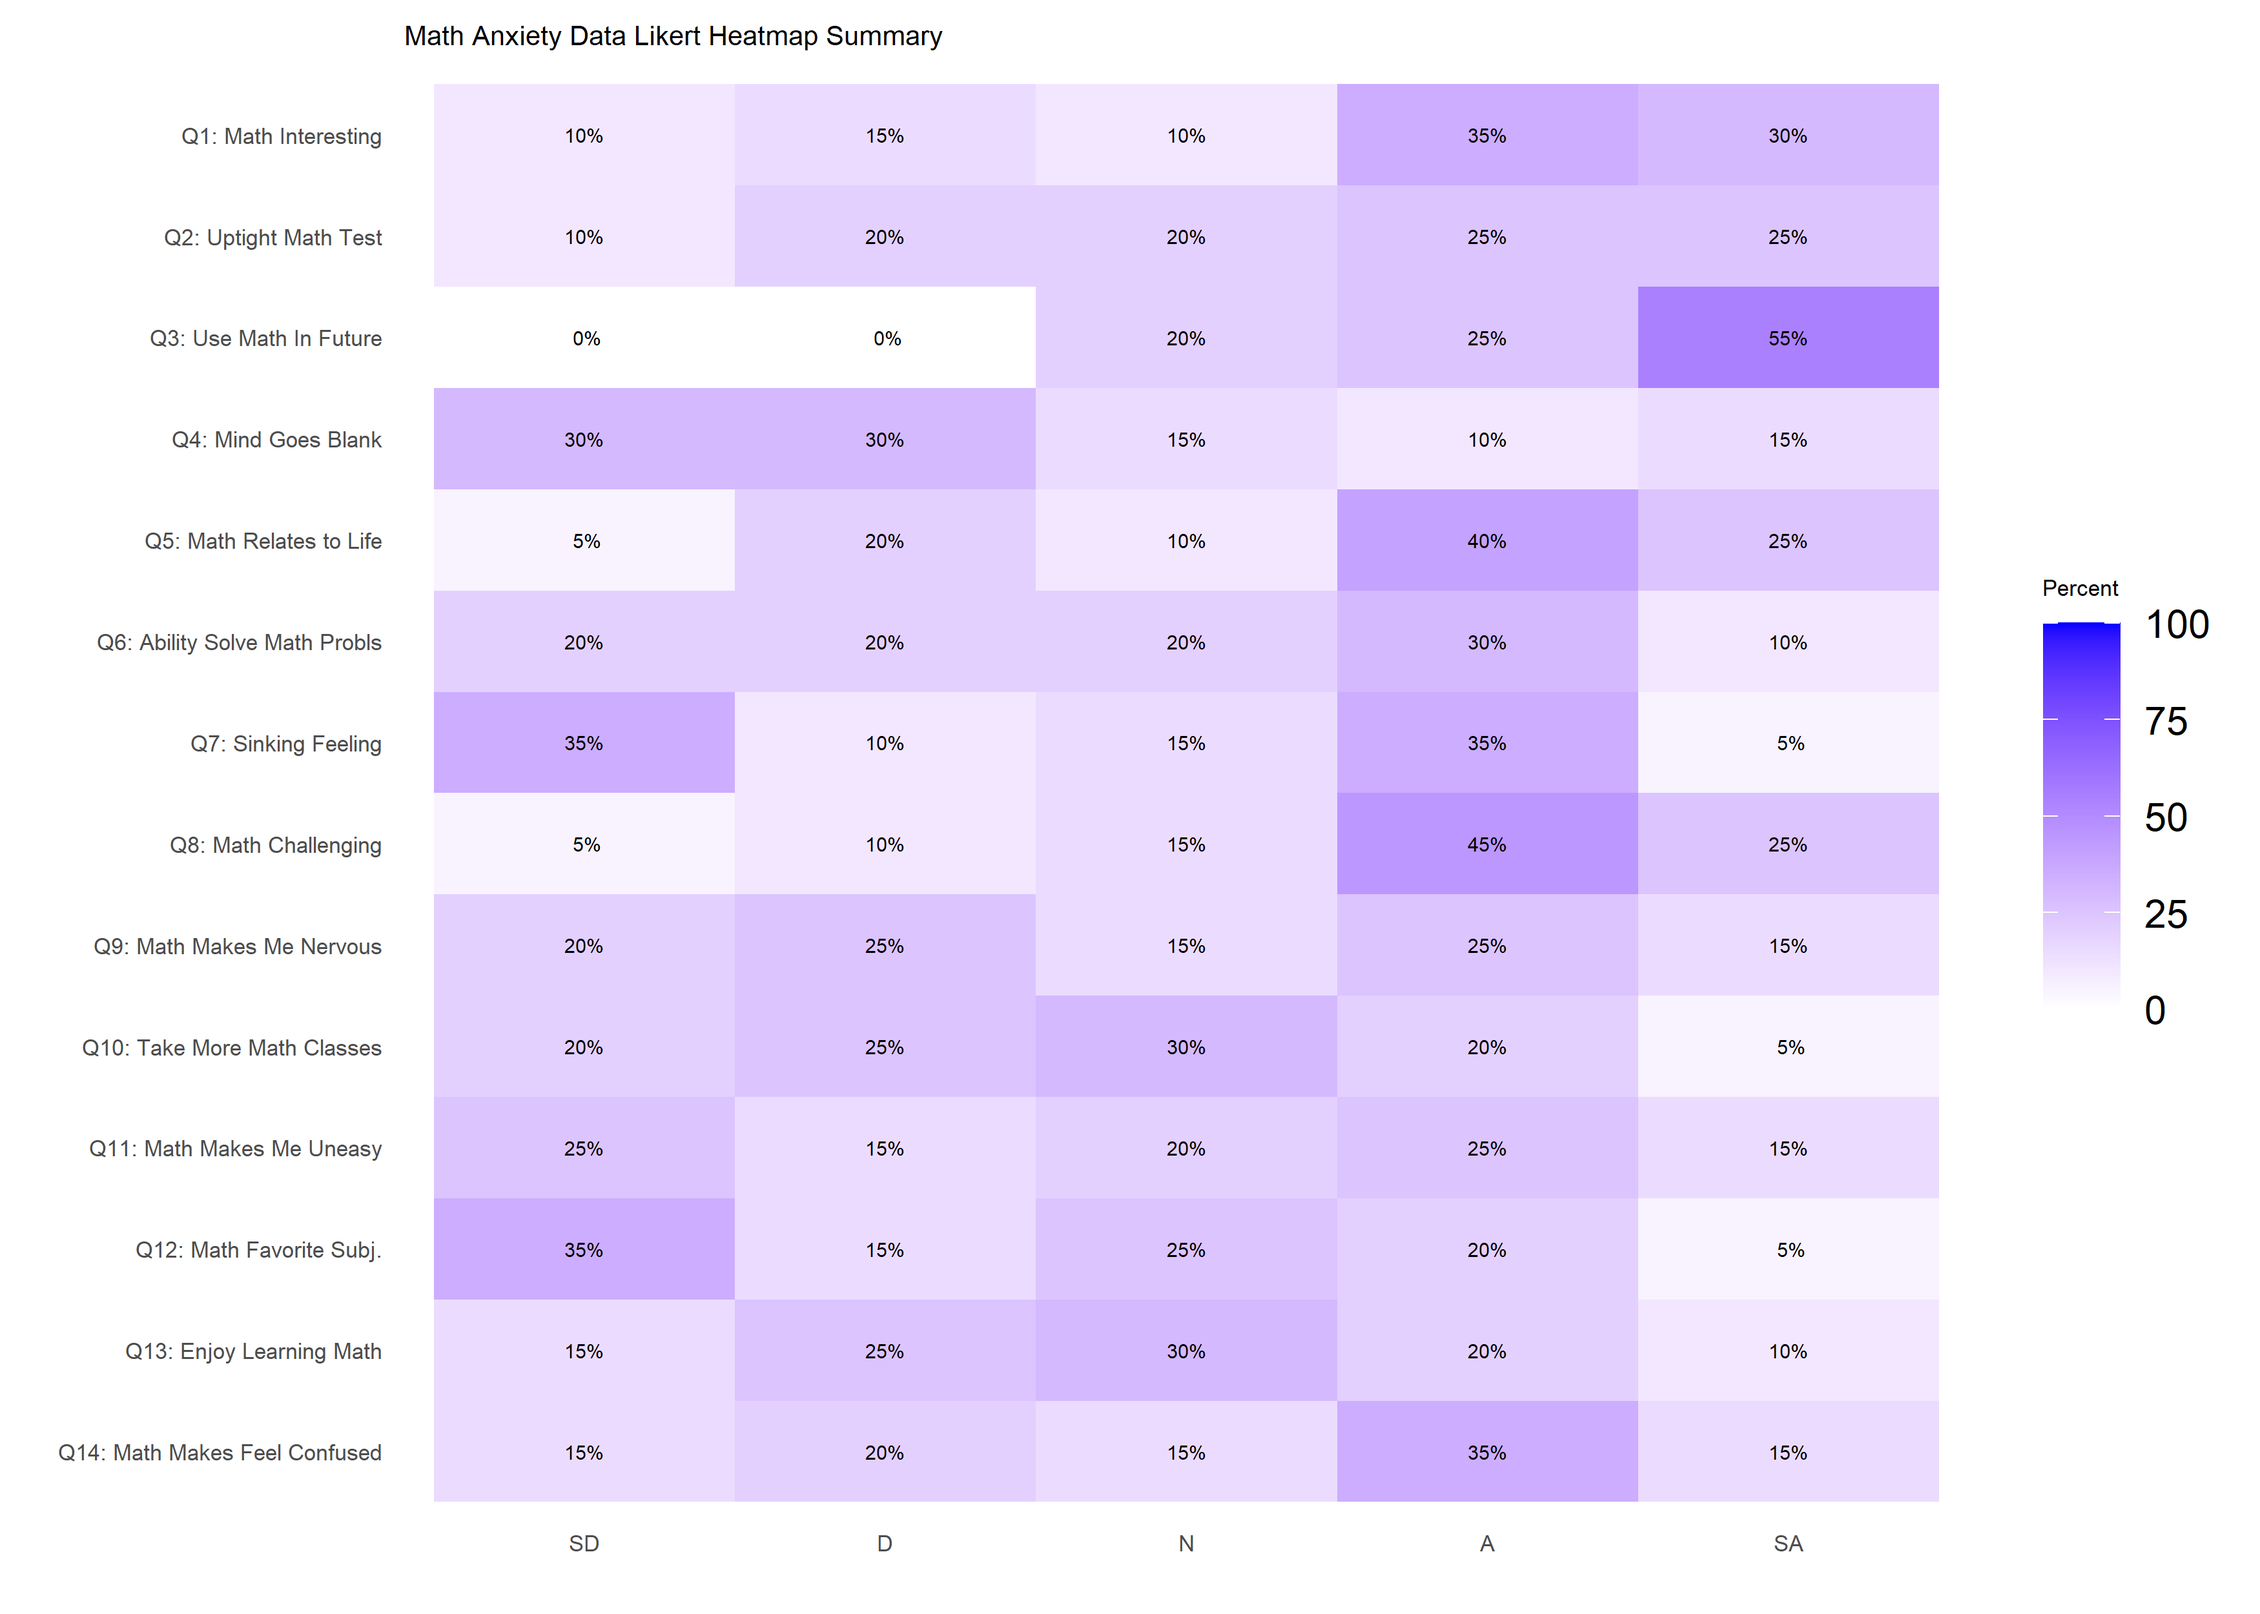
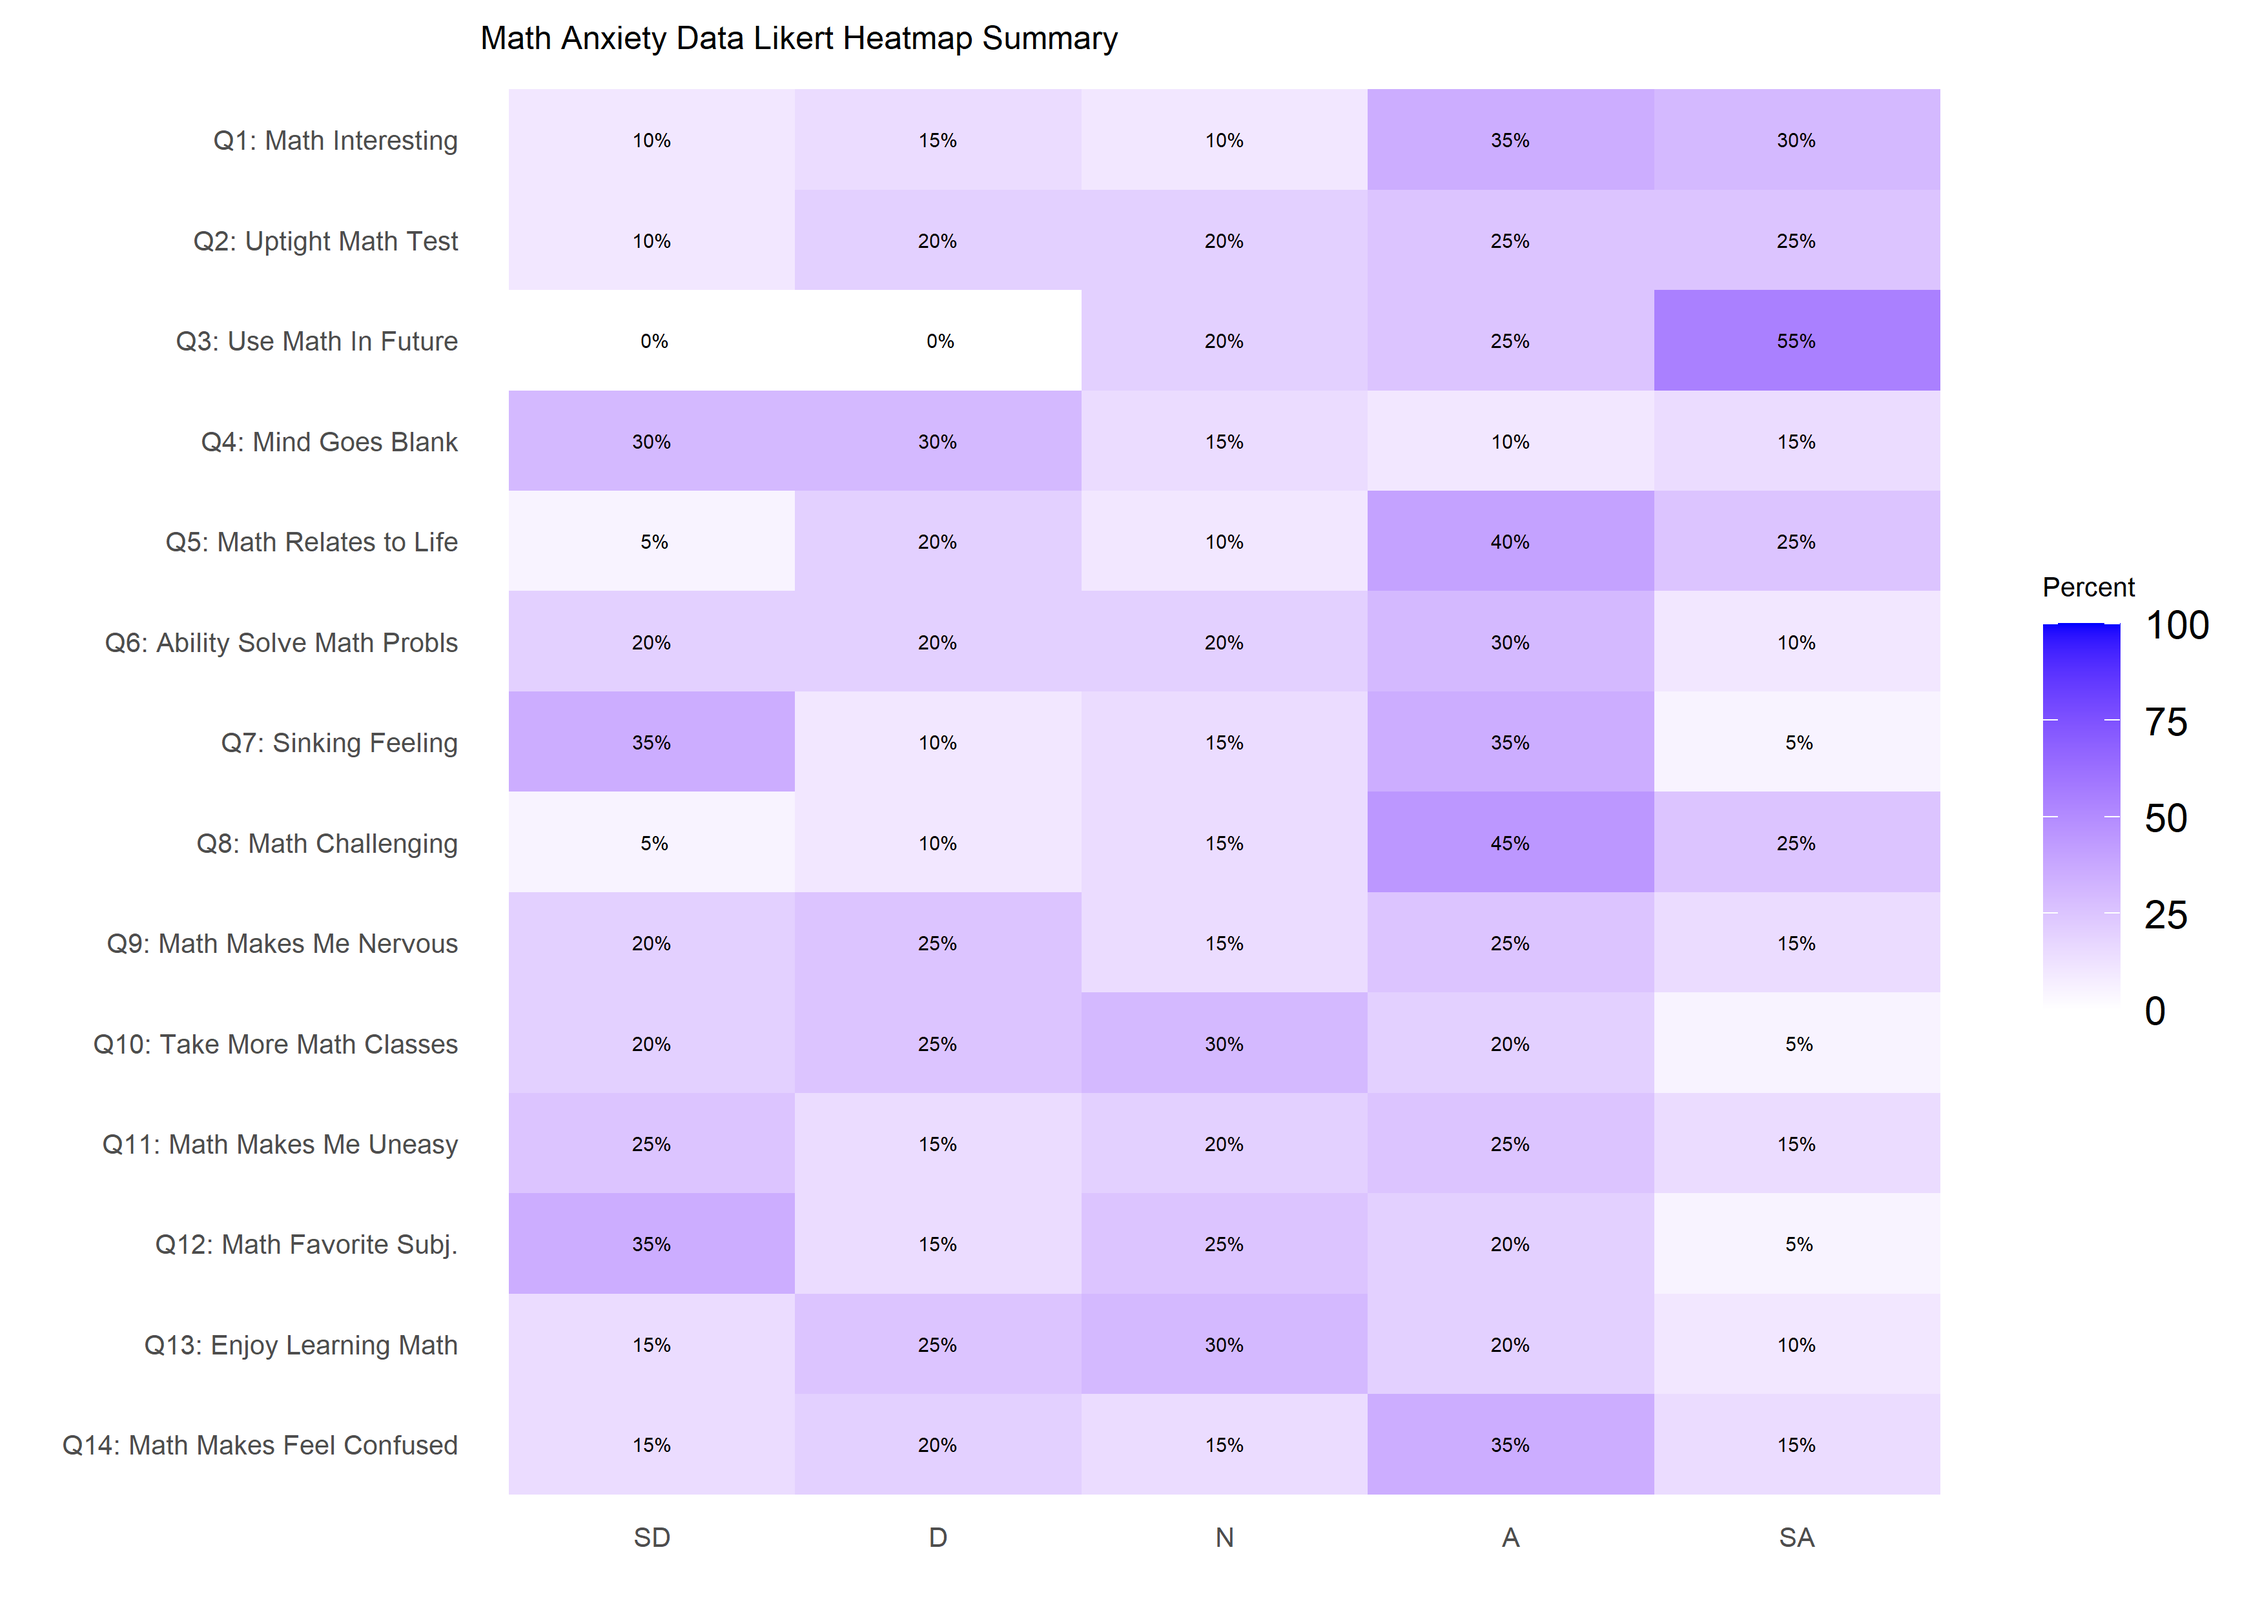
Github Vignette Expanded.

diff --git a/README.md b/README.md
@@ -21,7 +21,9 @@ You can install the development version of DiscreteGapStatistic from
 devtools::install_github("ecortesgomez/DiscreteGapStatistic")
 ```
 
-## Example: Math Anxiety Data
+# Example: Math Anxiety Data
+
+## Summarization and Data Exploration
 
 Basic usage of `DiscreteGapStatistic` is shown using `likert`’s Math
 Anxiety data.
@@ -44,8 +46,8 @@ library('dplyr')
 #>     intersect, setdiff, setequal, union
 ```
 
-First upload libraries and lightly modify the data. Questions are
-formatted and the categories are shortened.
+Libraries are uploaded. Questions are lightly formatted and the
+categories are shortened.
 
 ``` r
 library(likert)
@@ -78,16 +80,123 @@ rownames(massData) <- c(paste0('F', 1:2), paste0('M', 1),
                         paste0('F', 14), paste0('M', 6))
 ```
 
-First we visualize the data using a heatmap similar to the one produced
-by `likert::likert.heatmap.plot`.
+## Likert Heatmap
+
+The dataset is visualized using a heatmap similar to the one produced by
+`likert::likert.heatmap.plot`.
 
 ``` r
 likert.heat.plot2(massData[, -1],
                   allLevels = Cats,
                   text.size = 1.5)+
    labs(title = 'Math Anxiety Data Likert Heatmap Summary')+
-   theme(axis.text = element_text(size = 5), 
-         title = element_text(size = 5))
+   theme(axis.text = element_text(size = 6), 
+         title = element_text(size = 6))
 ```
 
-<img src="man/figures/README-LikertHeat-1.png" width="600" style="display: block; margin: auto;" />
+<img src="man/figures/README-LikertHeat-1.png" width="800" style="display: block; margin: auto;" />
+
+## Distance Matrices
+
+Five categorical distance functions are introduced to quantify
+dissimilarities/discrepancies between two categorical vectors (see
+function `distancematrix`). The following table describes the available
+distances and the names used within the package.
+
+    #> 
+    #> Attaching package: 'kableExtra'
+    #> The following object is masked from 'package:dplyr':
+    #> 
+    #>     group_rows
+
+<table class=" lightable-paper" style="font-family: &quot;Arial Narrow&quot;, arial, helvetica, sans-serif; width: auto !important; margin-left: auto; margin-right: auto;">
+<thead>
+<tr>
+<th style="text-align:left;">
+Distance
+</th>
+<th style="text-align:left;">
+Name
+</th>
+</tr>
+</thead>
+<tbody>
+<tr>
+<td style="text-align:left;border-left:1px solid;">
+Hamming
+</td>
+<td style="text-align:left;font-family: monospace;border-left:1px solid;border-right:1px solid;">
+hamming
+</td>
+</tr>
+<tr>
+<td style="text-align:left;border-left:1px solid;">
+chi-square
+</td>
+<td style="text-align:left;font-family: monospace;border-left:1px solid;border-right:1px solid;">
+chisquare
+</td>
+</tr>
+<tr>
+<td style="text-align:left;border-left:1px solid;">
+Cramer’s V
+</td>
+<td style="text-align:left;font-family: monospace;border-left:1px solid;border-right:1px solid;">
+cramerV
+</td>
+</tr>
+<tr>
+<td style="text-align:left;border-left:1px solid;">
+Hellinger
+</td>
+<td style="text-align:left;font-family: monospace;border-left:1px solid;border-right:1px solid;">
+hellinger
+</td>
+</tr>
+<tr>
+<td style="text-align:left;border-left:1px solid;">
+Bhattacharyya
+</td>
+<td style="text-align:left;font-family: monospace;border-left:1px solid;border-right:1px solid;">
+bhattacharyya
+</td>
+</tr>
+</tbody>
+</table>
+
+The resulting distance matrix from a rectangular dataset can easily be
+displayed and organized using heatmaps. The following plots visualize
+the `massData` using the defined distances with the function
+`distanceHeat`. This function only requires the dataset object and the
+name of the distance. It can also take advantage of the options and
+functionalities available in the `pheatmap` function (see the code
+below) from the `pheatmap` R package \[@kolde2019\]. For instance, by
+default, the columns are clustered using
+`clustering_method = 'complete'` but this parameter can be specified
+according to `pheatmap`’s options. Different aesthetic options are
+exemplified in the plots below using the introduced distances.
+
+``` r
+distanceHeat(x = massData[, -1], distName = 'hamming',
+             main = 'Hamming Distance\nMath Anxiety Data', fontsize = 6.5)
+
+distanceHeat(x = massData[, -1], distName = 'cramerV',
+             main = "Cramer's V Distance\nMath Anxiety Data", fontsize = 6.5, 
+             show_rownames = FALSE, cluster_rows = FALSE, cluster_cols=FALSE)
+```
+
+<img src="man/figures/README-DistanceMats1-1.png" width="330" /><img src="man/figures/README-DistanceMats1-2.png" width="330" />
+
+``` r
+distanceHeat(x = massData[, -1], distName = 'hellinger',
+             main = 'Hellinger Distance\nMath Anxiety Data', fontsize = 6.5, 
+             show_rownames = TRUE, border_color = 'black', 
+             , cluster_rows = FALSE, cluster_cols=FALSE)
+
+distanceHeat(x = massData[, -1], distName = 'bhattacharyya',
+             main = 'Bhattacharyya Distance\nMath Anxiety Data', fontsize = 6.5, 
+              show_rownames = TRUE, border_color = 'lightgrey', 
+             , cluster_rows = FALSE, cluster_cols=FALSE)
+```
+
+<img src="man/figures/README-DistanceMats2-1.png" width="330" /><img src="man/figures/README-DistanceMats2-2.png" width="330" />
